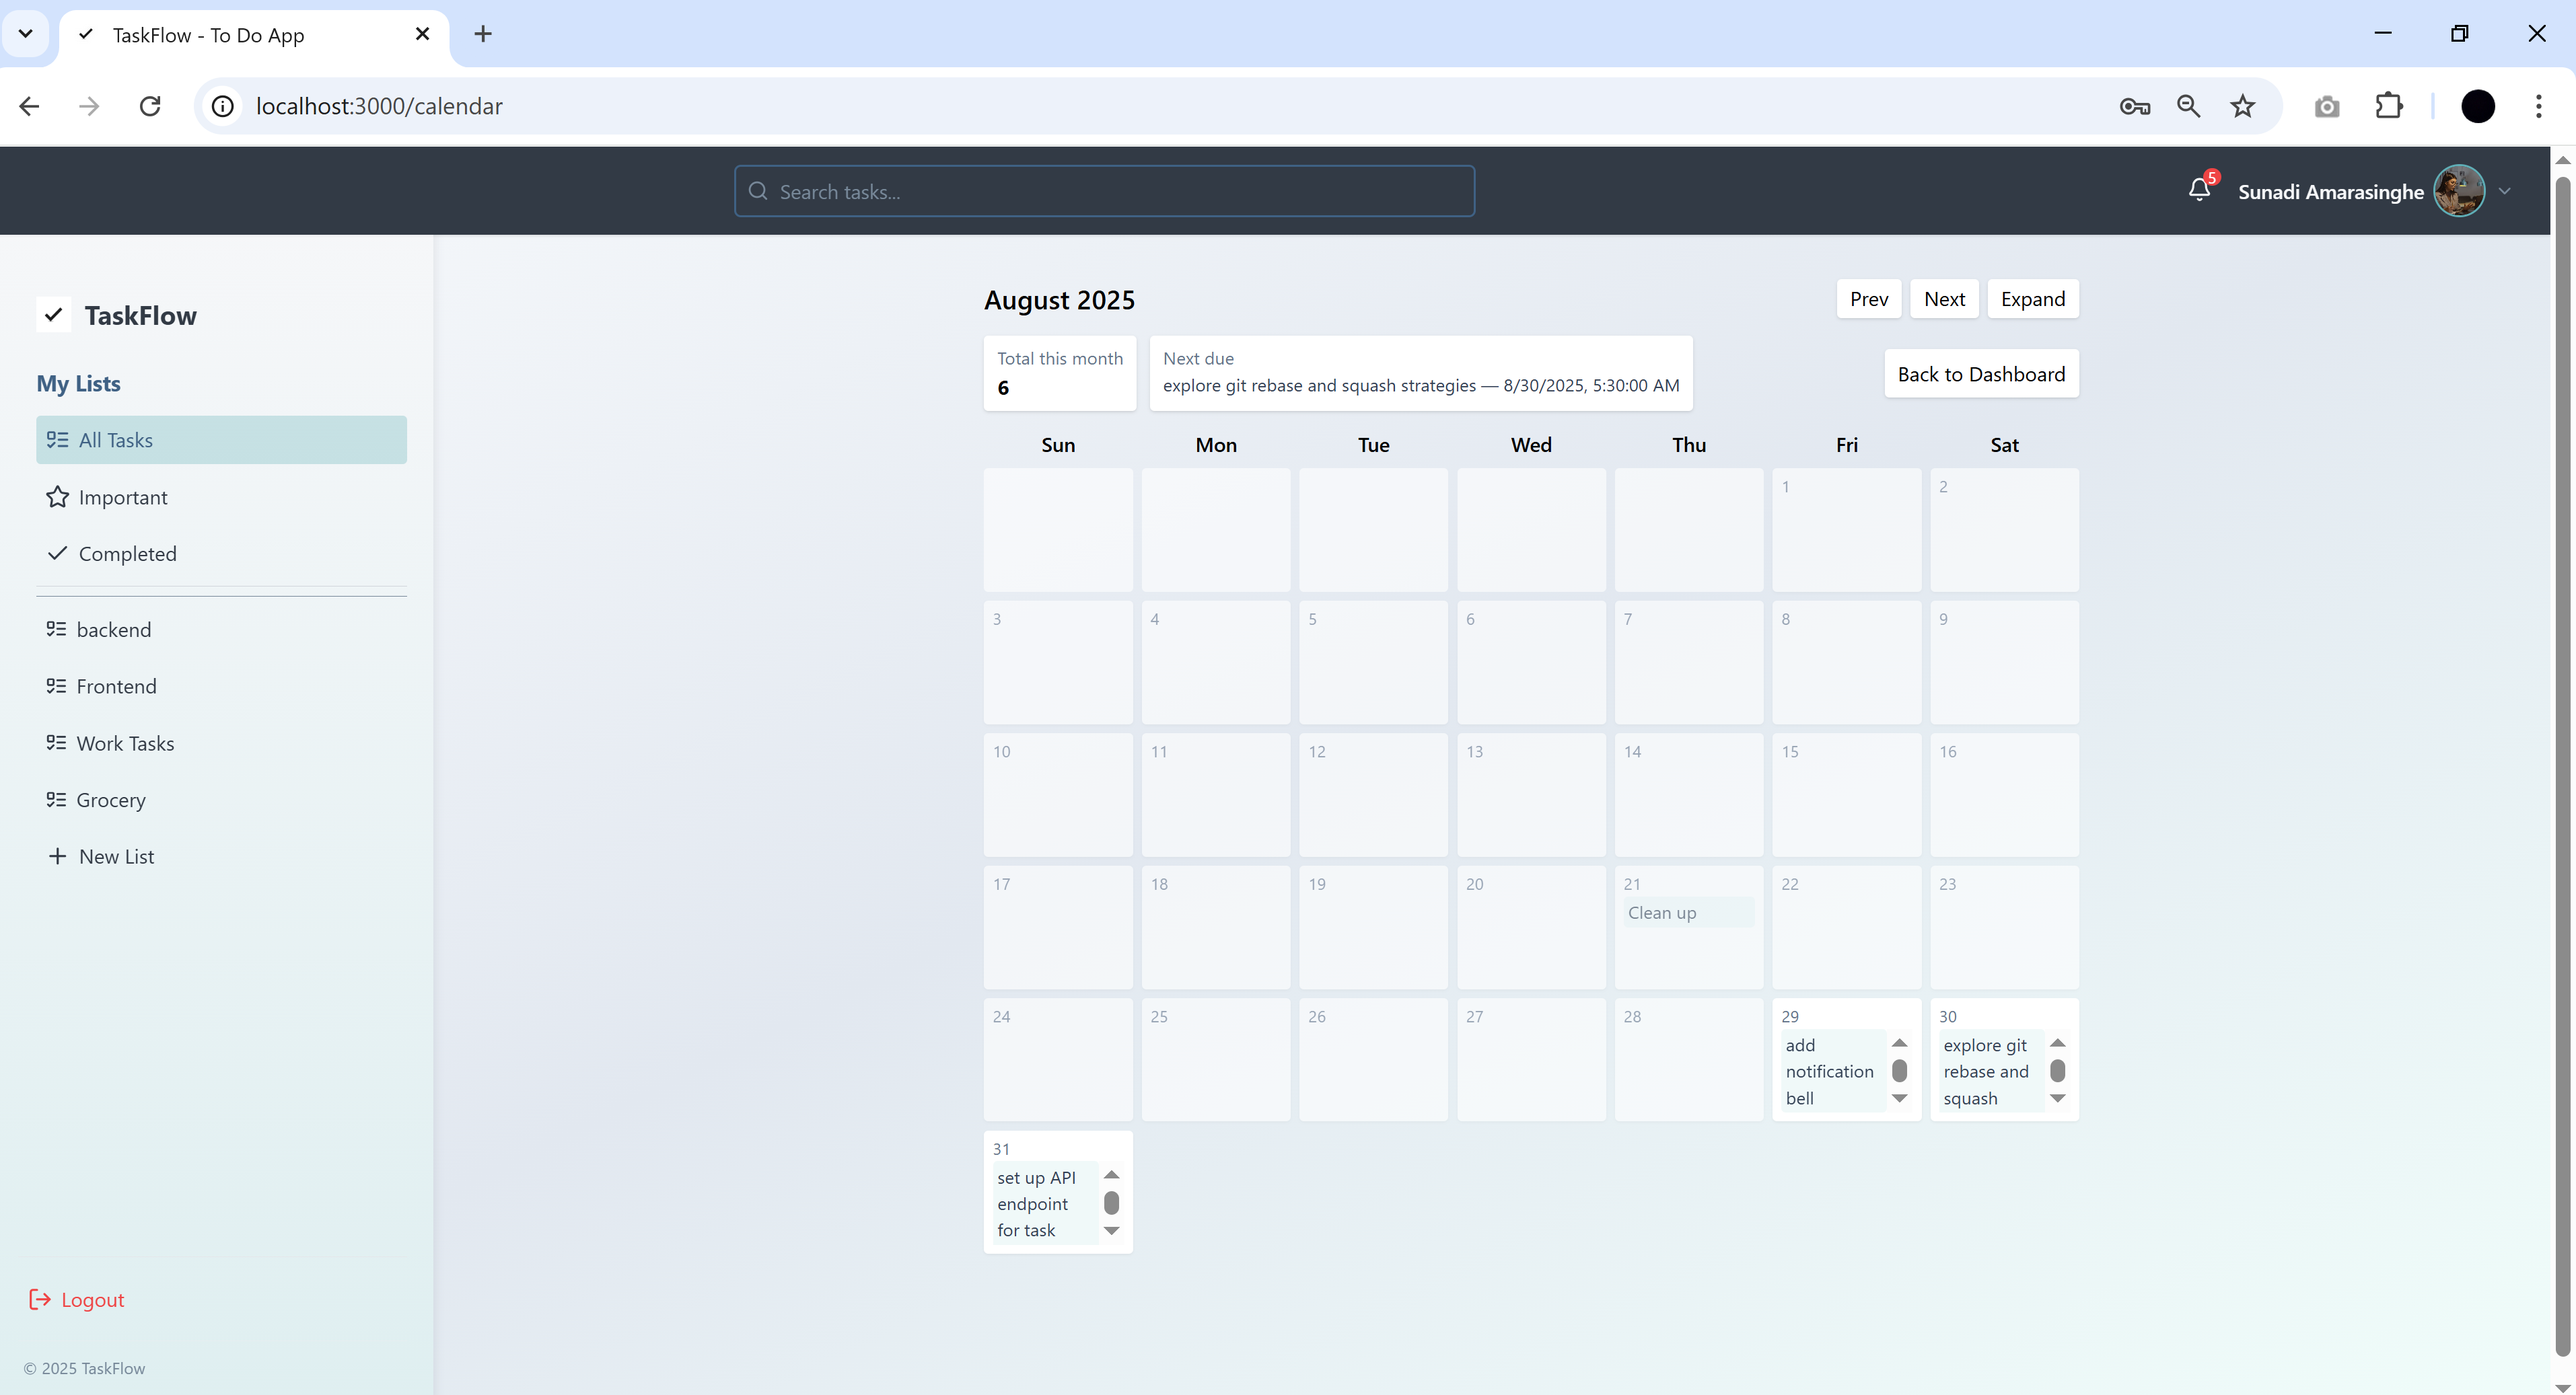
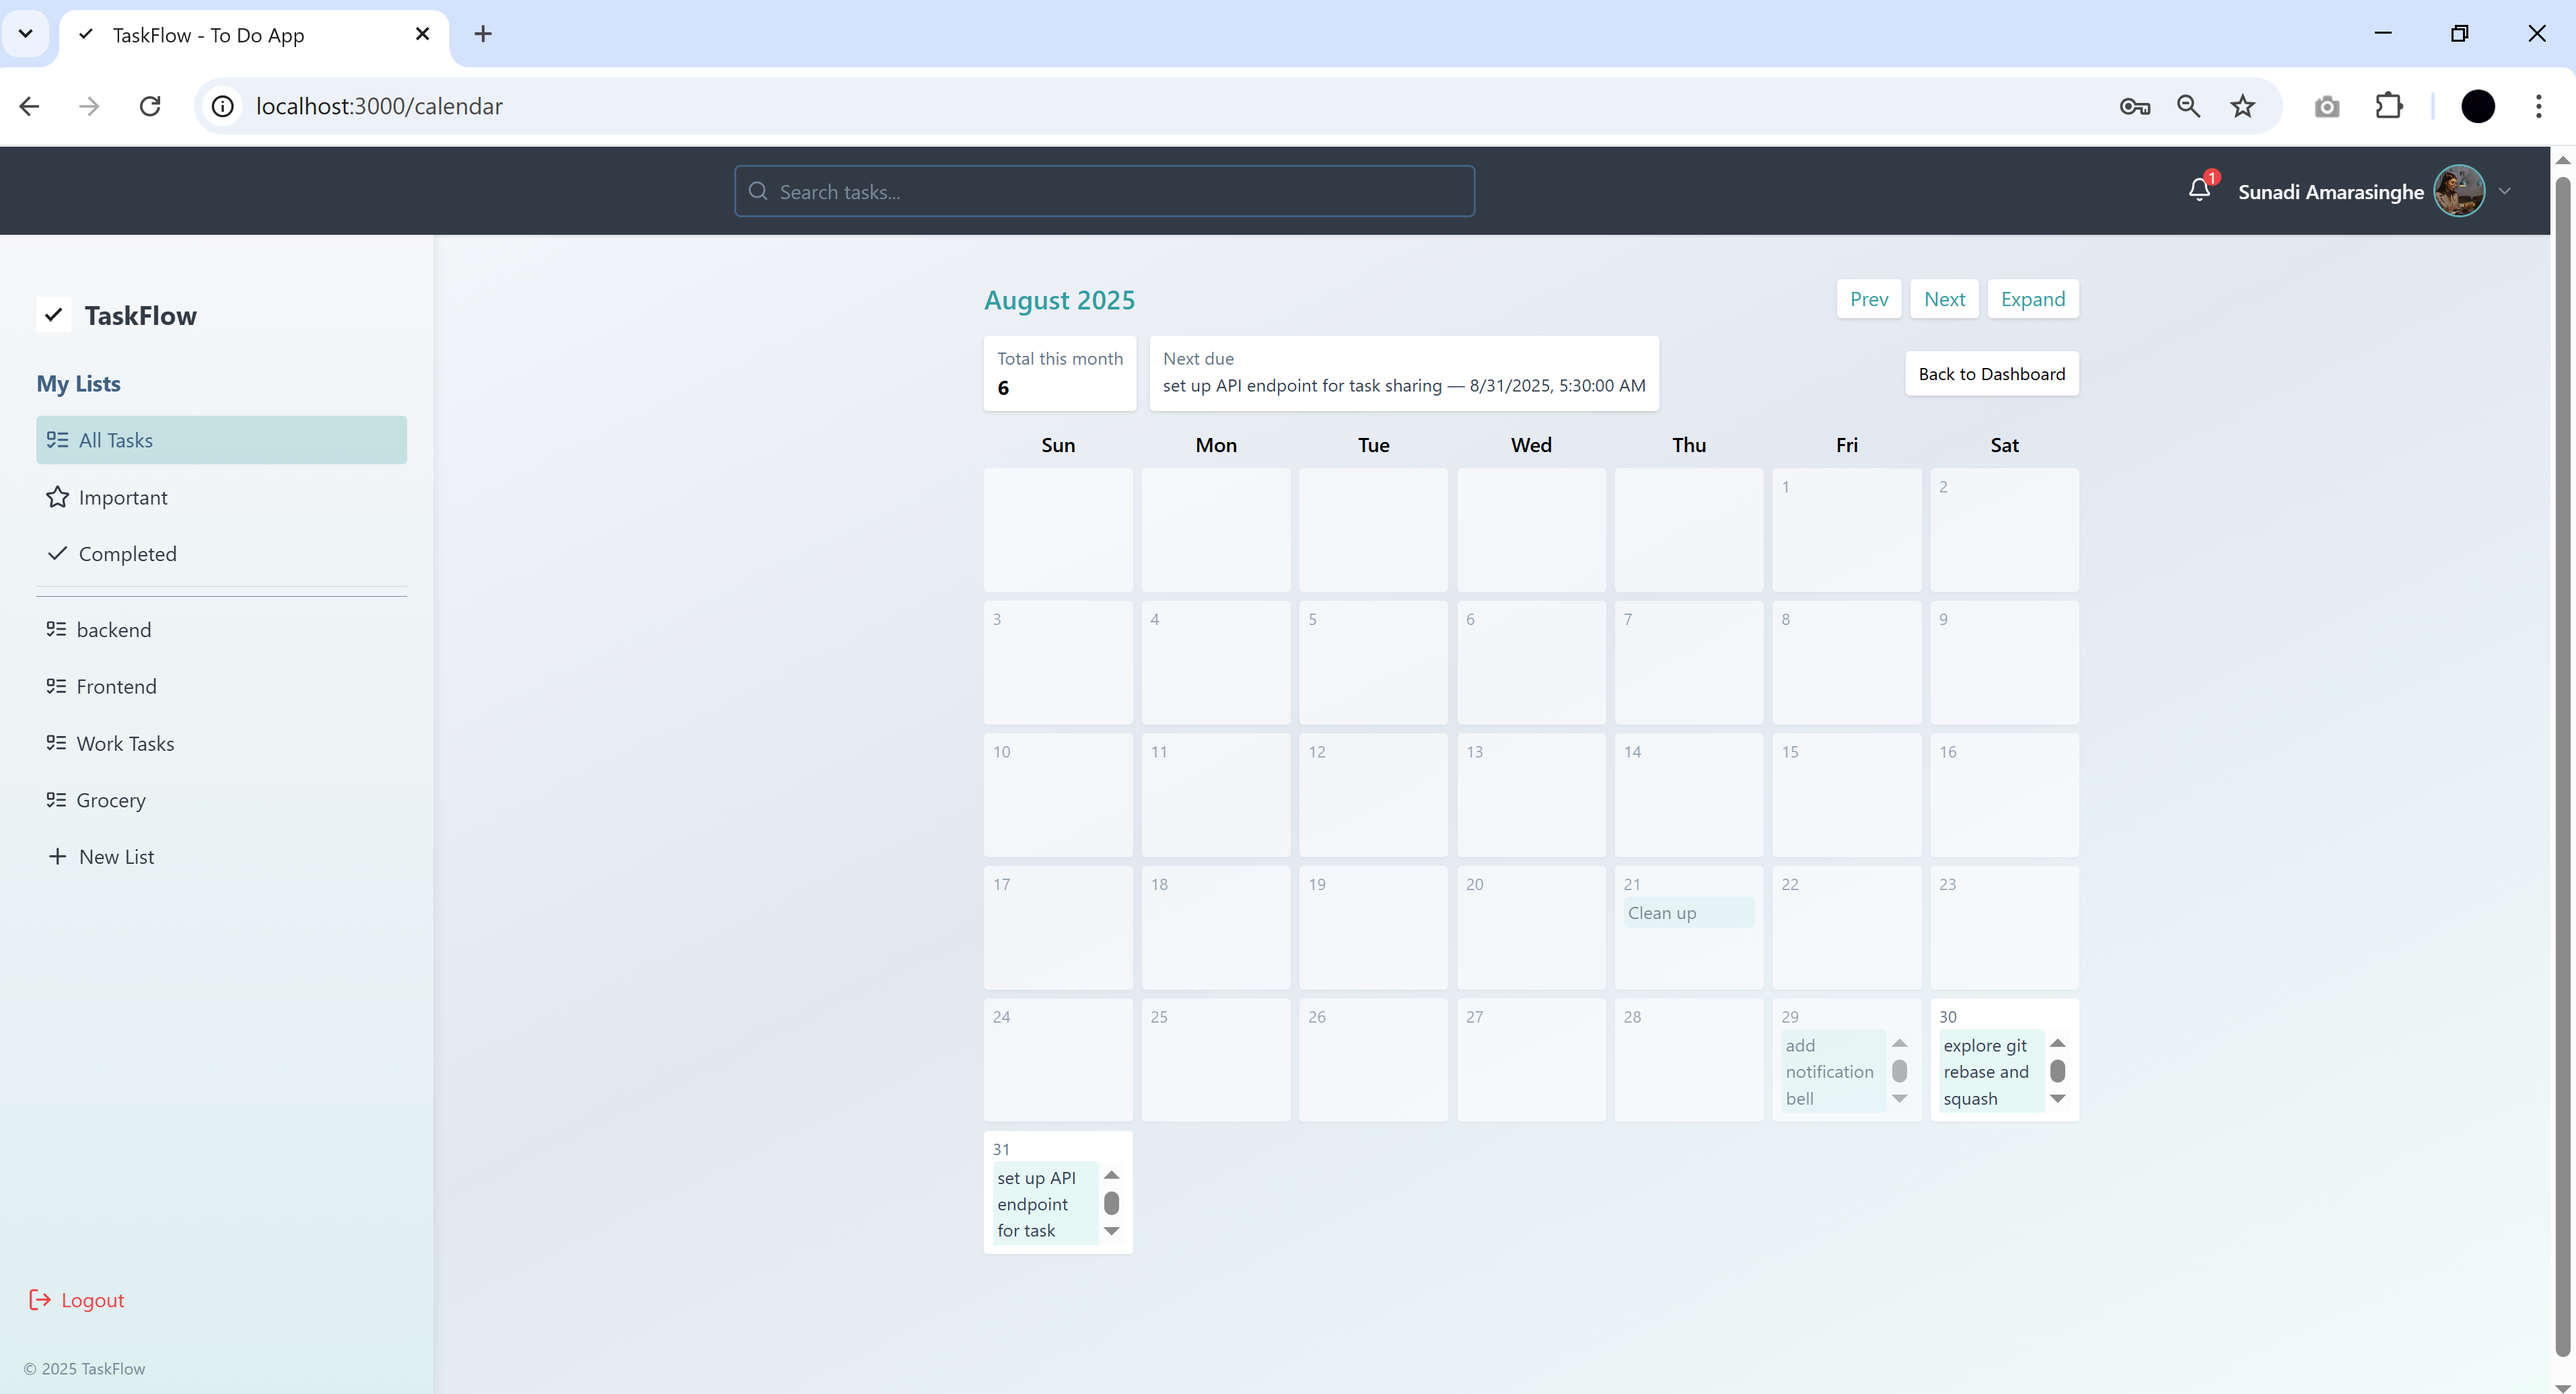
bug fixes

diff --git a/frontend/src/pages/Calendar.jsx b/frontend/src/pages/Calendar.jsx
@@ -121,6 +121,24 @@ const Calendar = ({ user, setUser }) => {
     return () => window.removeEventListener('open-task', handler);
   }, [current]);
 
+  useEffect(() => {
+      const handleClickOutside = (event) => {
+        if (isMobile && isSidebarOpen) {
+          const sidebar = document.querySelector('.sidebar-container');
+          const toggleButton = document.querySelector('.sidebar-toggle-button');
+          
+          if (sidebar && !sidebar.contains(event.target)) {
+            if (!toggleButton || !toggleButton.contains(event.target)) {
+              setIsSidebarOpen(false);
+            }
+          }
+        }
+      };
+  
+      document.addEventListener('mousedown', handleClickOutside);
+      return () => document.removeEventListener('mousedown', handleClickOutside);
+    }, [isMobile, isSidebarOpen]);
+  
   const handleSelectTask = async (id) => {
     try {
       const res = await API.get(`/api/tasks/${id}`);
@@ -190,12 +208,12 @@ const Calendar = ({ user, setUser }) => {
   };
 
   return (
-    <div className="flex min-h-screen bg-gradient-to-br from-slate-50 via-slate-200 to-teal-50">
+  <div className="flex min-h-screen bg-gradient-to-br from-slate-50 via-slate-200 to-teal-50">
       {/* Mobile Sidebar Toggle Button */}
       {isMobile && (
         <button
           onClick={toggleSidebar}
-          className="fixed top-4 left-4 z-40 p-2 rounded-md bg-slate-700 text-white sidebar-toggle-button"
+          className="text-2xl fixed top-4 left-4 z-40 p-2 px-4 rounded-md bg-slate-700 text-white sidebar-toggle-button"
           aria-label="Toggle sidebar"
         >
           {/* simple menu icon */}
@@ -234,30 +252,30 @@ const Calendar = ({ user, setUser }) => {
   <main className="flex-1 p-4 pt-16 md:pt-20 max-w-5xl mx-auto">
           <div className="flex items-center justify-between mb-4">
             <div>
-              <h2 className="text-2xl font-semibold">{current.toLocaleString('default', { month: 'long' })} {current.getFullYear()}</h2>
+              <h2 className="text-2xl font-semibold text-[#2f9ea5]">{current.toLocaleString('default', { month: 'long' })} {current.getFullYear()}</h2>
             </div>
             <div className="flex gap-2 items-center">
-              <button onClick={prevMonth} className="px-3 py-1 bg-white hover:bg-teal-50 rounded shadow">Prev</button>
-              <button onClick={nextMonth} className="px-3 py-1 bg-white rounded shadow hover:bg-teal-50">Next</button>
-              <button onClick={() => setExpanded(e => !e)} className=" hover:bg-teal-50 px-3 py-1 bg-white rounded shadow">
+              <button onClick={prevMonth} className="px-3 py-1 bg-white hover:bg-teal-50 rounded shadow text-[#2f9ea5]">Prev</button>
+              <button onClick={nextMonth} className="px-3 py-1 bg-white rounded shadow hover:bg-teal-50 text-[#2f9ea5]">Next</button>
+              <button onClick={() => setExpanded(e => !e)} className=" hover:bg-teal-50 px-3 py-1 bg-white rounded shadow text-[#2f9ea5]">
                 {expanded ? 'Collapse' : 'Expand'}
               </button>
             </div>
           </div>
 
-          <div className="flex items-center justify-between mb-4">
-            <div className="flex gap-3">
-              <div className="bg-white rounded px-3 py-2 shadow">
+          <div className="flex flex-col sm:flex-row items-start sm:items-center justify-between gap-3 mb-4">
+            <div className="flex w-full sm:w-auto gap-3 flex-col sm:flex-row">
+              <div className="bg-white rounded px-3 py-2 shadow flex-1 text-center sm:text-left">
                 <div className="text-base text-slate-500">Total this month</div>
                 <div className="text-lg font-bold">{totalTasks}</div>
               </div>
-              <div className="bg-white rounded px-3 py-2 shadow">
+              <div className="bg-white rounded px-3 py-2 shadow  text-center sm:text-left">
                 <div className="text-base text-slate-500">Next due</div>
                 <div className="text-base text-slate-700">{nextTask ? `${nextTask.title} — ${new Date(nextTask.dueDate).toLocaleString()}` : '—'}</div>
               </div>
             </div>
-            <div>
-              <button onClick={() => navigate('/dashboard')} className="px-3 py-2 bg-white rounded shadow hover:bg-teal-50">Back to Dashboard</button>
+            <div className="w-full sm:w-auto flex justify-start sm:justify-end">
+              <button onClick={() => navigate('/dashboard')} className="text-base px-3 py-2 bg-white rounded shadow hover:bg-teal-50">Back to Dashboard</button>
             </div>
           </div>
 
@@ -281,8 +299,8 @@ const Calendar = ({ user, setUser }) => {
                 >
                   <div className="text-xs text-slate-500">{cell.getDate()}</div>
                   <div className="mt-1 flex-1 overflow-auto">
-                    {items.slice(0,maxItems).map(it => (
-                      <div key={it._id} className="text-base py-0.5 px-1 rounded mb-1 bg-[#f0f9f9] text-slate-700" onClick={(e) => { e.stopPropagation(); handleSelectTask(it._id); }}>
+                      {items.slice(0,maxItems).map(it => (
+                      <div key={it._id} className="text-base py-0.5 px-1 rounded mb-1 bg-[#e6f7f6] text-slate-700" onClick={(e) => { e.stopPropagation(); handleSelectTask(it._id); }}>
                         {it.title}
                       </div>
                     ))}

diff --git a/backend/routes/authRoutes.js b/backend/routes/authRoutes.js
@@ -7,6 +7,8 @@ const { generateResetCode, sendResetEmail } = require('../services/emailService'
 const multer = require('multer');
 const path = require('path');
 
+const PASSWORD_RESET_EXPIRY_MS = 10 * 60 * 1000; // 10 minutes
+
 const storage = multer.diskStorage({
   destination: function (req, file, cb) {
     cb(null, 'uploads/');
@@ -54,8 +56,8 @@ router.post('/forgot-password', async (req, res) => {
     const resetCode = generateResetCode();
     console.log('Generated reset code for', email, ':', resetCode);
 
-    user.resetPasswordToken = resetCode;
-    user.resetPasswordExpires = Date.now() + 3600000; // 1 hour
+  user.resetPasswordToken = resetCode;
+  user.resetPasswordExpires = Date.now() + PASSWORD_RESET_EXPIRY_MS; // 10 minutes
     
     await user.save();
     console.log('Reset token saved for user:', user._id);
@@ -150,14 +152,23 @@ router.put('/me', protect, async (req, res) => {
     }
 
     await user.save();
-    
+    res.status(200).json({ message: 'Profile updated successfully', user: {
+      _id: user._id,
+      name: user.name,
+      email: user.email,
+      avatar: user.avatar
+    }});
   } catch (err) {
     res.status(500).json({ message: 'Server error', error: err.message });
   }
+});
 
+// Proper account deletion route
+router.delete('/me', protect, async (req, res) => {
   try {
+    // Soft delete could be implemented; for now perform hard delete
     await User.findByIdAndDelete(req.user._id);
-    res.status(200).json({ message: 'Account deactivated successfully' });
+    res.status(200).json({ message: 'Account deleted successfully' });
   } catch (err) {
     res.status(500).json({ message: 'Server error', error: err.message });
   }

diff --git a/frontend/src/components/TopNavbar.jsx b/frontend/src/components/TopNavbar.jsx
@@ -168,11 +168,8 @@ const handleProfileUpdate = async (e) => {
         formData.append('avatar', profileForm.avatarFile);
       }
 
-      const response = await API.put('/api/auth/me/profile', formData, {
-        headers: {
-          'Content-Type': 'multipart/form-data'
-        }
-      });
+  // Let axios/browser set the Content-Type (including multipart boundary)
+  const response = await API.put('/api/auth/me/profile', formData);
     
       const updatedUser = response.data.user;
       setUser(updatedUser);  //updates the state in Dashboard
@@ -299,7 +296,11 @@ const handleProfileUpdate = async (e) => {
                             notifications.map((t) => (
                               <button
                                 key={t._id}
-                                onClick={async () => {
+                                onClick={async (e) => {
+                                  // prevent clicks inside notifications from bubbling to parent toggle
+                                  e.stopPropagation();
+                                  // ensure profile dropdown is closed
+                                  setShowDropdown(false);
                                   try {
                                     const res = await API.get(`/api/tasks/${t._id}`);
                                     // emit a global event to open task detail panel with data

diff --git a/backend/controllers/authController.js b/backend/controllers/authController.js
@@ -4,16 +4,23 @@ const jwt = require('jsonwebtoken');
 
 
 exports.registerUser = async (req, res) => {
-  const { name, email, password } = req.body;
+  let { name, email, password } = req.body;
+
+  // Basic validation
+  if (!name || !email || !password) {
+    return res.status(400).json({ message: 'Name, email and password are required' });
+  }
+
+  // Normalize email
+  email = email.trim().toLowerCase();
 
   try {
     
-    const userExists = await User.findOne({ email });
-    if (userExists) return res.status(400).json({ message: 'Email already registered' });
+  const userExists = await User.findOne({ email });
+  if (userExists) return res.status(400).json({ message: 'Email already registered' });
 
-    
   // User schema handles password hashing in pre-save middleware
-  const newUser = new User({ name, email, password });
+  const newUser = new User({ name: name.trim(), email, password });
   await newUser.save();
 
     
@@ -27,6 +34,10 @@ exports.registerUser = async (req, res) => {
       token
     });
   } catch (err) {
+    // Handle duplicate key race (unique index)
+    if (err.code === 11000 && err.keyPattern && err.keyPattern.email) {
+      return res.status(400).json({ message: 'Email already registered' });
+    }
     res.status(500).json({ message: 'Server error', error: err.message });
   }
 };

diff --git a/frontend/src/pages/ListPage.jsx b/frontend/src/pages/ListPage.jsx
@@ -351,8 +351,8 @@ const ListPage = () => {
                     <span className="relative">
                       <Star
                         size={20}
-                        className={`cursor-pointer transition-colors duration-150
-                          ${task.isImportant ? "text-yellow-400" : "text-slate-300"}
+                        className={`hover:text-yellow-600 cursor-pointer transition-colors duration-150
+                          ${task.isImportant ? "text-yellow-500 " : "text-slate-300"}
                         `}
                         onClick={() => toggleImportant(task._id)}
                         onMouseEnter={e => e.currentTarget.classList.add('text-yellow-300')}

diff --git a/backend/services/emailService.js b/backend/services/emailService.js
@@ -30,7 +30,7 @@ exports.sendResetEmail = async (email, code) => {
           <div style="background: #f3f4f6; padding: 10px; border-radius: 5px; font-size: 24px; letter-spacing: 2px; display: inline-block; margin: 10px 0;">
             ${code}
           </div>
-          <p>This code will expire in 1 hour.</p>
+          <p>This code will expire in 10 minutes.</p>
           <p>If you didn't request this, please ignore this email.</p>
         </div>
       `

diff --git a/frontend/src/pages/Dashboard.jsx b/frontend/src/pages/Dashboard.jsx
@@ -389,6 +389,7 @@ const Dashboard = () => {
                         onMouseEnter={e => e.currentTarget.classList.add('text-yellow-300')}
                         onMouseLeave={e => e.currentTarget.classList.remove('text-yellow-300')}
                         style={task.isImportant ? { color: '#facc15' } : {}}
+                        
                       />
                     </span>
                     <span className="relative">

diff --git a/frontend/src/components/TaskDetailPanel.jsx b/frontend/src/components/TaskDetailPanel.jsx
@@ -118,7 +118,7 @@ const TaskDetailPanel = ({
               onClick={() =>
                 updateTaskField("isImportant", !selectedTask.isImportant)
               }
-              title="Toggle Important"
+              title={selectedTask.isImportant ? "Unmark as important" : "Mark this task as important"}
             />
           </div>
 

diff --git a/backend/models/User.js b/backend/models/User.js
@@ -28,9 +28,9 @@ const userSchema = new mongoose.Schema({
 
 userSchema.pre('save', async function(next) {
   if (!this.isModified('password')) {
-    next();
+    return next();
   }
-  
+
   const salt = await bcrypt.genSalt(10);
   this.password = await bcrypt.hash(this.password, salt);
 });
